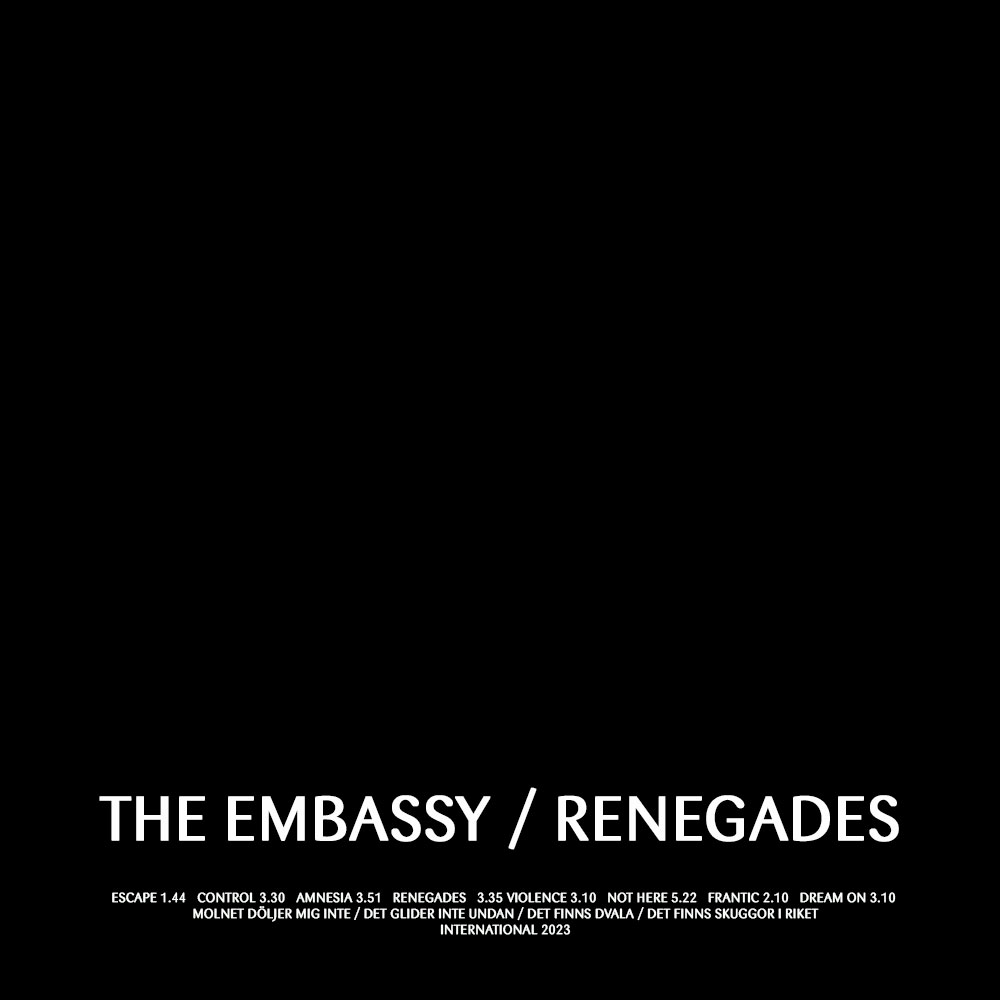
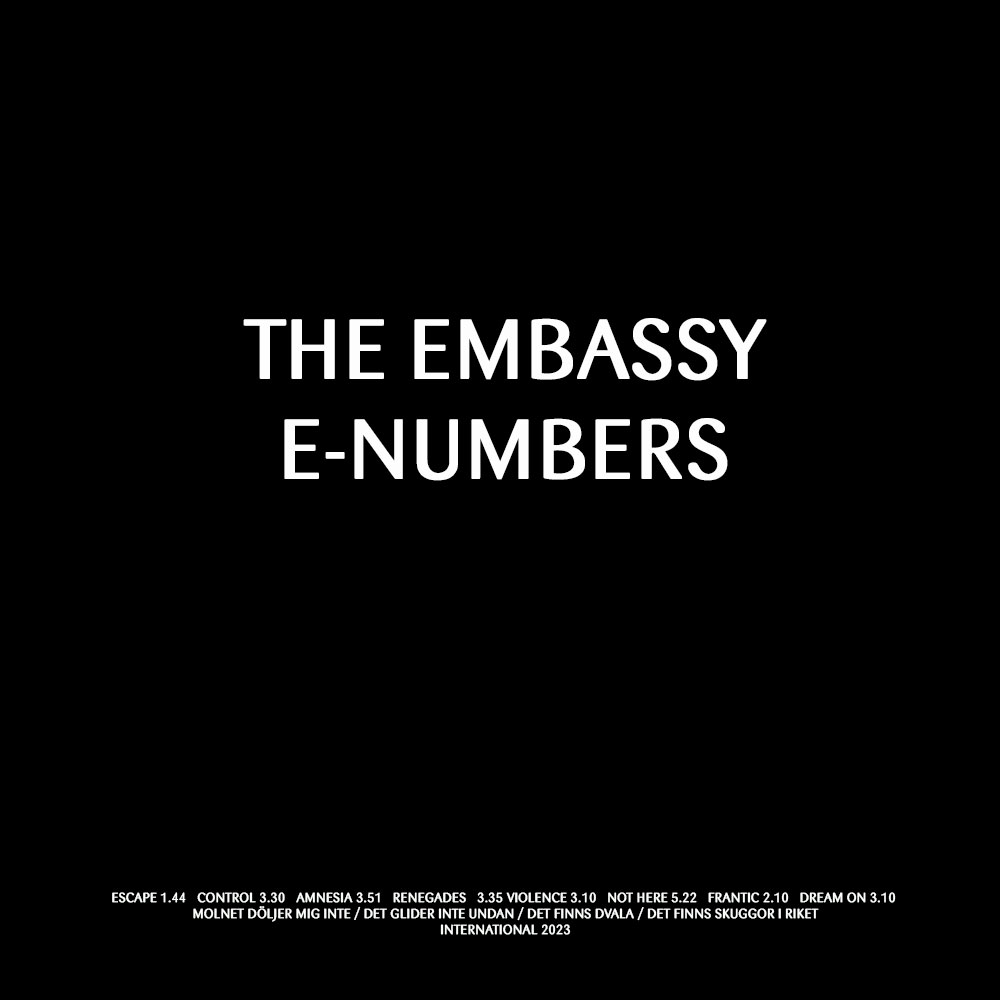
up

Changed region(s): [[0.248, 0.31, 0.775, 0.496], [0.527, 0.775, 0.899, 0.868], [0.093, 0.775, 0.527, 0.868]]

diff --git a/inter24.html b/inter24.html
@@ -65,7 +65,7 @@
 
 			<ul class="cat-nav">
 				<li>
-					<h1>Renegades</h1>
+					<h1>E-Numbers</h1>
 				</li>
 				<li>Le mal qui vient</li>
 				<li>LIMITED EDITION 12" Clear Smoke VINYL<br>

diff --git a/inter24a.html b/inter24a.html
@@ -44,7 +44,7 @@
 
 			<ul class="cat-nav">
 				<li>
-					<h1>Renegades</h1>
+					<h1>E-Numbers</h1>
 				</li>
 				<li>Le mal qui vient</li>
 				<li>LIMITED EDITION 12" Clear Smoke VINYL<br>

diff --git a/inter24b.html b/inter24b.html
@@ -44,7 +44,7 @@
 
 			<ul class="cat-nav">
 				<li>
-					<h1>Renegades</h1>
+					<h1>E-Numbers</h1>
 				</li>
 				<li>Le mal qui vient</li>
 				<li>LIMITED EDITION 12" Clear Smoke VINYL<br>

diff --git a/inter24back.html b/inter24back.html
@@ -44,7 +44,7 @@
 
 			<ul class="cat-nav">
 				<li>
-					<h1>Renegades</h1>
+					<h1>E-Numbers</h1>
 				</li>
 				<li>Le mal qui vient</li>
 				<li>LIMITED EDITION 12" Clear Smoke VINYL<br>

diff --git a/inter24front.html b/inter24front.html
@@ -44,7 +44,7 @@
 
 			<ul class="cat-nav">
 				<li>
-					<h1>Renegades</h1>
+					<h1>E-Numbers</h1>
 				</li>
 				<li>Le mal qui vient</li>
 				<li>LIMITED EDITION 12" Clear Smoke VINYL<br>

diff --git a/inter24v.html b/inter24v.html
@@ -65,7 +65,7 @@
 
 			<ul class="cat-nav">
 				<li>
-					<h1>Renegades</h1>
+					<h1>E-Numbers</h1>
 				</li>
 				<li>Le mal qui vient</li>
 				<li>LIMITED EDITION 12" Clear Smoke VINYL<br>
